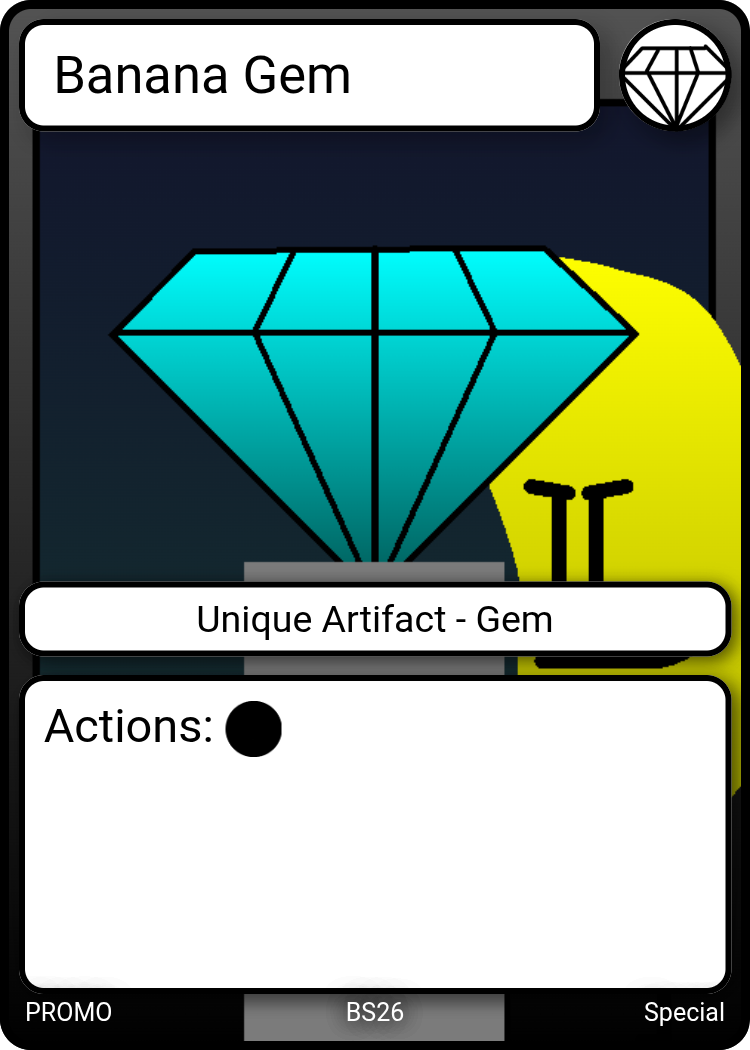
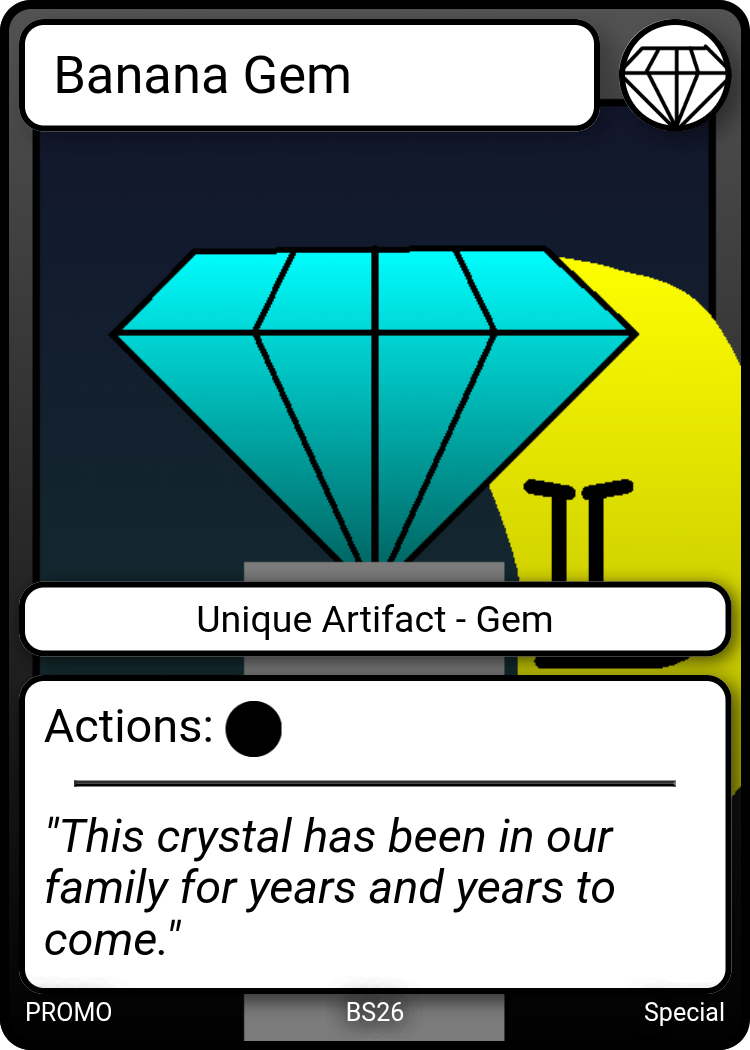
Added some final promo cards for the set

Changed region(s): [[0.0613, 0.7314, 0.8893, 0.9143]]

diff --git a/_site/assets/css/site.css b/_site/assets/css/site.css
@@ -219,6 +219,39 @@ h1 {
   overflow: hidden;
 }
 
+.site-discord {
+  max-width: 1100px;
+  margin: 2rem auto 3rem;
+  padding: 0 1.2rem;
+}
+
+.site-discord__inner {
+  display: grid;
+  grid-template-columns: minmax(280px, 350px) 1fr;
+  gap: 1.2rem;
+  align-items: start;
+}
+
+.site-discord__widget {
+  width: min(100%, 350px);
+  height: 500px;
+  border: 0;
+  border-radius: 12px;
+  box-shadow: var(--shadow);
+}
+
+.site-discord__copy {
+  max-width: 64ch;
+}
+
+.site-discord__copy h2 {
+  margin-bottom: 0.7rem;
+}
+
+.site-discord__copy p {
+  margin: 0 0 0.7rem;
+}
+
 .carousel-3d {
   height: 430px;
   display: grid;
@@ -646,6 +679,25 @@ main {
   .carousel-3d__track img {
     width: 150px;
     height: 210px;
+  }
+
+  .site-discord {
+    margin: 1.2rem auto 2.2rem;
+  }
+
+  .site-discord__inner {
+    grid-template-columns: 1fr;
+    justify-items: center;
+  }
+
+  .site-discord__copy {
+    max-width: 72ch;
+  }
+
+  .site-discord__widget {
+    width: 100%;
+    max-width: 350px;
+    height: min(72vh, 500px);
   }
 
   .tutorial__topbar {

diff --git a/assets/css/site.css b/assets/css/site.css
@@ -219,6 +219,39 @@ h1 {
   overflow: hidden;
 }
 
+.site-discord {
+  max-width: 1100px;
+  margin: 2rem auto 3rem;
+  padding: 0 1.2rem;
+}
+
+.site-discord__inner {
+  display: grid;
+  grid-template-columns: minmax(280px, 350px) 1fr;
+  gap: 1.2rem;
+  align-items: start;
+}
+
+.site-discord__widget {
+  width: min(100%, 350px);
+  height: 500px;
+  border: 0;
+  border-radius: 12px;
+  box-shadow: var(--shadow);
+}
+
+.site-discord__copy {
+  max-width: 64ch;
+}
+
+.site-discord__copy h2 {
+  margin-bottom: 0.7rem;
+}
+
+.site-discord__copy p {
+  margin: 0 0 0.7rem;
+}
+
 .carousel-3d {
   height: 430px;
   display: grid;
@@ -646,6 +679,25 @@ main {
   .carousel-3d__track img {
     width: 150px;
     height: 210px;
+  }
+
+  .site-discord {
+    margin: 1.2rem auto 2.2rem;
+  }
+
+  .site-discord__inner {
+    grid-template-columns: 1fr;
+    justify-items: center;
+  }
+
+  .site-discord__copy {
+    max-width: 72ch;
+  }
+
+  .site-discord__widget {
+    width: 100%;
+    max-width: 350px;
+    height: min(72vh, 500px);
   }
 
   .tutorial__topbar {

diff --git a/_site/gallery.html b/_site/gallery.html
@@ -104,8 +104,36 @@
 </div>
 
 <script id="sets-json" type="application/json">
-[{"id":"base-set-2026","name":"Base Set 2026","path":"sets/Base Set 2026/fronts","tsv":"sets/Base Set 2026/Base Set 2026.tsv","total_cards":48,"code_prefix":"","code_padding":2,"description":"The foundational release of Super Benji TCG, featuring iconic characters, rival forces, and key locations from Benji Island."}]
+[{"id":"base-set-2026","name":"Base Set 2026","path":"sets/Base Set 2026/fronts","tsv":"sets/Base Set 2026/Base Set 2026.tsv","total_cards":57,"code_prefix":"","code_padding":2,"description":"The foundational release of Super Benji TCG, featuring iconic characters, rival forces, and key locations from Benji Island."}]
 </script>
+
+
+    <section class="site-discord section section--highlight" aria-label="Official Discord server">
+      <div class="site-discord__inner">
+        <iframe
+          class="site-discord__widget"
+          src="https://discordapp.com/widget?id=1274552272424271963&theme=dark"
+          width="350"
+          height="500"
+          allowtransparency="true"
+          frameborder="0"
+          sandbox="allow-popups allow-popups-to-escape-sandbox allow-same-origin allow-scripts"
+          title="Official Super Benji Discord server"
+          loading="lazy"></iframe>
+        <div class="site-discord__copy">
+          <p class="eyebrow">Community</p>
+          <h2>Join The Official Super Benji Discord</h2>
+          <p>
+            This is the official Discord server for the full Super Benji series, not only the trading card game.
+            You'll find channels for the show, movies, and community updates.
+          </p>
+          <p>
+            It also has Super Benji TCG spaces where players share decks, ask rules questions, and talk about the game.
+            Join now to talk with a community of other people who love the Super Benji TCG!
+          </p>
+        </div>
+      </div>
+    </section>
 
     <script src="/assets/js/site.js" defer></script>
   </body>

diff --git a/_layouts/default.html b/_layouts/default.html
@@ -51,6 +51,34 @@
       </nav>
     </header>
     {{ content }}
+
+    <section class="site-discord section section--highlight" aria-label="Official Discord server">
+      <div class="site-discord__inner">
+        <iframe
+          class="site-discord__widget"
+          src="https://discordapp.com/widget?id=1274552272424271963&theme=dark"
+          width="350"
+          height="500"
+          allowtransparency="true"
+          frameborder="0"
+          sandbox="allow-popups allow-popups-to-escape-sandbox allow-same-origin allow-scripts"
+          title="Official Super Benji Discord server"
+          loading="lazy"></iframe>
+        <div class="site-discord__copy">
+          <p class="eyebrow">Community</p>
+          <h2>Join The Official Super Benji Discord</h2>
+          <p>
+            This is the official Discord server for the full Super Benji series, not only the trading card game.
+            You'll find channels for the show, movies, and community updates.
+          </p>
+          <p>
+            It also has Super Benji TCG spaces where players share decks, ask rules questions, and talk about the game.
+            Join now to talk with a community of other people who love the Super Benji TCG!
+          </p>
+        </div>
+      </div>
+    </section>
+
     <script src="{{ '/assets/js/site.js' | relative_url }}" defer></script>
   </body>
 </html>

diff --git a/_site/index.html b/_site/index.html
@@ -133,6 +133,34 @@
 
 </main>
 
+
+    <section class="site-discord section section--highlight" aria-label="Official Discord server">
+      <div class="site-discord__inner">
+        <iframe
+          class="site-discord__widget"
+          src="https://discordapp.com/widget?id=1274552272424271963&theme=dark"
+          width="350"
+          height="500"
+          allowtransparency="true"
+          frameborder="0"
+          sandbox="allow-popups allow-popups-to-escape-sandbox allow-same-origin allow-scripts"
+          title="Official Super Benji Discord server"
+          loading="lazy"></iframe>
+        <div class="site-discord__copy">
+          <p class="eyebrow">Community</p>
+          <h2>Join The Official Super Benji Discord</h2>
+          <p>
+            This is the official Discord server for the full Super Benji series, not only the trading card game.
+            You'll find channels for the show, movies, and community updates.
+          </p>
+          <p>
+            It also has Super Benji TCG spaces where players share decks, ask rules questions, and talk about the game.
+            Join now to talk with a community of other people who love the Super Benji TCG!
+          </p>
+        </div>
+      </div>
+    </section>
+
     <script src="/assets/js/site.js" defer></script>
   </body>
 </html>

diff --git a/_site/rules.html b/_site/rules.html
@@ -296,6 +296,34 @@
   </section>
 </main>
 
+
+    <section class="site-discord section section--highlight" aria-label="Official Discord server">
+      <div class="site-discord__inner">
+        <iframe
+          class="site-discord__widget"
+          src="https://discordapp.com/widget?id=1274552272424271963&theme=dark"
+          width="350"
+          height="500"
+          allowtransparency="true"
+          frameborder="0"
+          sandbox="allow-popups allow-popups-to-escape-sandbox allow-same-origin allow-scripts"
+          title="Official Super Benji Discord server"
+          loading="lazy"></iframe>
+        <div class="site-discord__copy">
+          <p class="eyebrow">Community</p>
+          <h2>Join The Official Super Benji Discord</h2>
+          <p>
+            This is the official Discord server for the full Super Benji series, not only the trading card game.
+            You'll find channels for the show, movies, and community updates.
+          </p>
+          <p>
+            It also has Super Benji TCG spaces where players share decks, ask rules questions, and talk about the game.
+            Join now to talk with a community of other people who love the Super Benji TCG!
+          </p>
+        </div>
+      </div>
+    </section>
+
     <script src="/assets/js/site.js" defer></script>
   </body>
 </html>

diff --git a/_site/tutorial.html b/_site/tutorial.html
@@ -285,6 +285,34 @@
 </main>
 
 <script src="/assets/js/tutorial.js" defer></script>
+
+    <section class="site-discord section section--highlight" aria-label="Official Discord server">
+      <div class="site-discord__inner">
+        <iframe
+          class="site-discord__widget"
+          src="https://discordapp.com/widget?id=1274552272424271963&theme=dark"
+          width="350"
+          height="500"
+          allowtransparency="true"
+          frameborder="0"
+          sandbox="allow-popups allow-popups-to-escape-sandbox allow-same-origin allow-scripts"
+          title="Official Super Benji Discord server"
+          loading="lazy"></iframe>
+        <div class="site-discord__copy">
+          <p class="eyebrow">Community</p>
+          <h2>Join The Official Super Benji Discord</h2>
+          <p>
+            This is the official Discord server for the full Super Benji series, not only the trading card game.
+            You'll find channels for the show, movies, and community updates.
+          </p>
+          <p>
+            It also has Super Benji TCG spaces where players share decks, ask rules questions, and talk about the game.
+            Join now to talk with a community of other people who love the Super Benji TCG!
+          </p>
+        </div>
+      </div>
+    </section>
+
     <script src="/assets/js/site.js" defer></script>
   </body>
 </html>